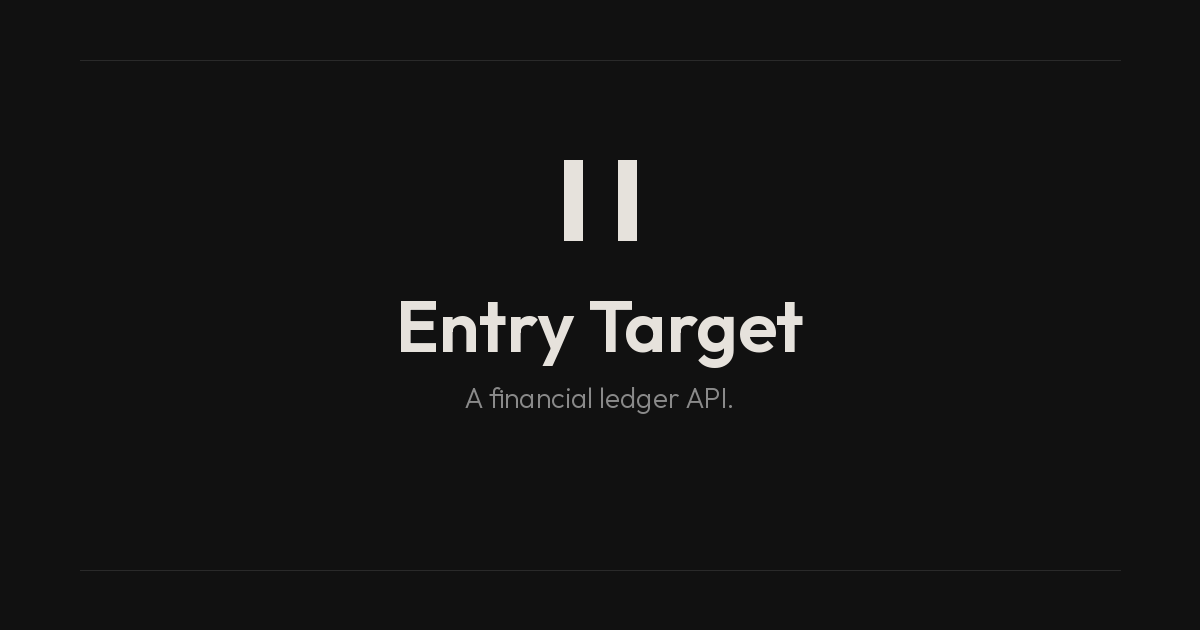
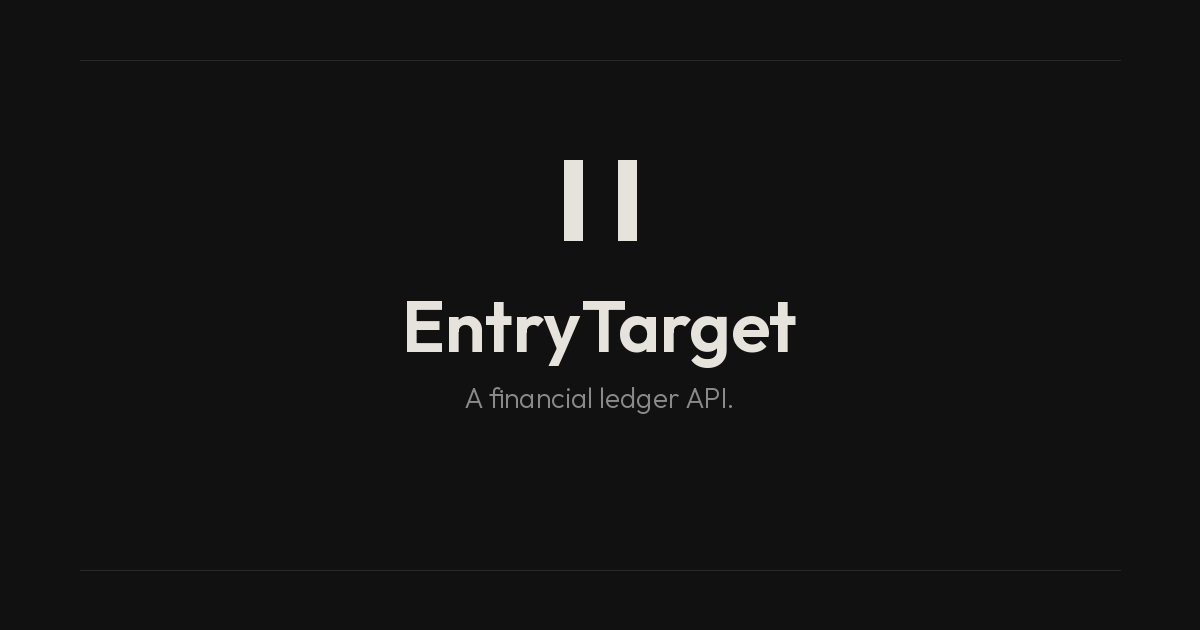
og-image.png

Changed region(s): [[0.3083, 0.4825, 0.6783, 0.6032]]

diff --git a/index.html b/index.html
@@ -16,7 +16,7 @@
     <meta name="viewport" content="width=device-width, initial-scale=1.0" />
 
     <!-- SEO fundamentals -->
-    <title>Entry Target — A financial ledger API.</title>
+    <title>EntryTarget — A financial ledger API.</title>
     <meta
       name="description"
       content="A high-performance, consistent, and straightforward financial ledger API. Double-entry accounting delivered as infrastructure — reliable, auditable, and built to operate at scale."
@@ -29,7 +29,7 @@
 
     <!-- Open Graph (WhatsApp, LinkedIn, Facebook) -->
     <meta property="og:type" content="website" />
-    <meta property="og:title" content="Entry Target — A financial ledger API." />
+    <meta property="og:title" content="EntryTarget — A financial ledger API." />
     <meta
       property="og:description"
       content="High-performance double-entry ledger API. Consistent, auditable, and built to scale."
@@ -38,11 +38,11 @@
     <meta property="og:image" content="https://entrytarget.com/og-image.png" />
     <meta property="og:image:width" content="1200" />
     <meta property="og:image:height" content="630" />
-    <meta property="og:site_name" content="Entry Target" />
+    <meta property="og:site_name" content="EntryTarget" />
 
     <!-- Twitter Card -->
     <meta name="twitter:card" content="summary_large_image" />
-    <meta name="twitter:title" content="Entry Target — A financial ledger API." />
+    <meta name="twitter:title" content="EntryTarget — A financial ledger API." />
     <meta
       name="twitter:description"
       content="High-performance double-entry ledger API. Consistent, auditable, and built to scale."
@@ -69,7 +69,7 @@
       {
         "@context": "https://schema.org",
         "@type": "SoftwareApplication",
-        "name": "Entry Target",
+        "name": "EntryTarget",
         "applicationCategory": "FinanceApplication",
         "description": "A high-performance, consistent, and straightforward financial ledger API.",
         "url": "https://entrytarget.com",
@@ -84,7 +84,7 @@
           },
           {
             "@type": "Offer",
-            "name": "Entry Target",
+            "name": "EntryTarget",
             "price": "250",
             "priceCurrency": "USD",
             "description": "Unlimited transactions. Configure your own infrastructure."
@@ -92,7 +92,7 @@
         ],
         "provider": {
           "@type": "Organization",
-          "name": "Entry Target",
+          "name": "EntryTarget",
           "url": "https://entrytarget.com",
           "contactPoint": {
             "@type": "ContactPoint",
@@ -323,9 +323,7 @@
         <li><a href="#pricing">Pricing</a></li>
         <li><a href="#faq">FAQ</a></li>
         <li>
-          <a href="https://entrytarget.gitbook.io/docs/" target="_blank" rel="noopener"
-            >Docs ↗</a
-          >
+          <a href="https://entrytarget.gitbook.io/docs/" target="_blank" rel="noopener">Docs ↗</a>
         </li>
         <li>
           <a href="https://console.entrytarget.com/" target="_blank" rel="noopener">Console ↗</a>
@@ -336,13 +334,15 @@
     <main>
       <!-- Hero -->
       <section class="hero" aria-label="Introduction">
-        <h1>Entry Target</h1>
-        <p class="tagline">A stateless financial ledger API. High performance. Uncompromising consistency.</p>
+        <h1>EntryTarget</h1>
+        <p class="tagline">
+          A stateless financial ledger API. High performance. Uncompromising consistency.
+        </p>
         <p>
-          Financial infrastructure should not be a source of uncertainty. Entry Target is a
+          Financial infrastructure should not be a source of uncertainty. EntryTarget is a
           double-entry ledger delivered as an API — purpose-built for teams that require
-          correctness, auditability, and throughput. The architecture is minimal by design.
-          A proven accounting model, executed with precision.
+          correctness, auditability, and throughput. The architecture is minimal by design. A proven
+          accounting model, executed with precision.
         </p>
       </section>
 
@@ -350,15 +350,13 @@
       <section id="what">
         <h2>What is it</h2>
         <p>
-          Entry Target is a financial ledger API. You create accounts, register financial
-          transfers between them, and retrieve balances. Credits equal debits. The books
-          close on time.
+          EntryTarget is a financial ledger API. You create accounts, register financial transfers
+          between them, and retrieve balances. Credits equal debits. The books close on time.
         </p>
         <p>
-          The architecture is conservative by design — a Rust monolith communicating
-          directly with the database. It runs on <em>your</em> AWS account. One container
-          on Fargate, one Postgres instance on RDS. Your data never leaves your
-          infrastructure.
+          The architecture is conservative by design — a Rust monolith communicating directly with
+          the database. It runs on <em>your</em> AWS account. One container on Fargate, one Postgres
+          instance on RDS. Your data never leaves your infrastructure.
         </p>
         <p>
           The result is an API that handles millions of transactions with full consistency:
@@ -373,8 +371,8 @@
         <h3>Double-entry bookkeeping</h3>
         <p>
           Every transaction produces a debit and a credit — or a batch of them. Always balanced.
-          Always consistent. The double-entry method is the established standard for accounting,
-          and this system implements it without deviation.
+          Always consistent. The double-entry method is the established standard for accounting, and
+          this system implements it without deviation.
         </p>
 
         <h3>Immutable audit trail</h3>
@@ -386,79 +384,77 @@
 
         <h3>Integrity verification</h3>
         <p>
-          Call <code>GET /integrity</code> to verify the entire database. Every row is
-          validated. If any record was altered directly in Postgres — whether by an
-          administrative error, an unauthorized script, or a misconfigured process — the
-          system detects it. Accounts with integrity violations are immediately blocked
-          from further transactions. Immutability is enforced at the application level.
+          Call <code>GET /integrity</code> to verify the entire database. Every row is validated. If
+          any record was altered directly in Postgres — whether by an administrative error, an
+          unauthorized script, or a misconfigured process — the system detects it. Accounts with
+          integrity violations are immediately blocked from further transactions. Immutability is
+          enforced at the application level.
         </p>
 
         <h3>Multi-asset support</h3>
         <p>
           The system tracks assets, not currencies specifically. Whether the unit of account is
-          dollars, euros, or inventory items, the ledger handles it with arbitrary precision.
-          Each journal entry declares its asset, and every account involved must match. Multiple
-          assets coexist within the same ledger without constraint.
+          dollars, euros, or inventory items, the ledger handles it with arbitrary precision. Each
+          journal entry declares its asset, and every account involved must match. Multiple assets
+          coexist within the same ledger without constraint.
         </p>
 
         <h3>No silent deduplication</h3>
         <p>
-          Duplicate requests are not silently absorbed. If the same transaction is submitted
-          twice, the system rejects it explicitly. Deduplication is a responsibility of the
-          calling system. The ledger treats every request as intentional, ensuring that
-          integration errors are detected at the point of origin.
+          Duplicate requests are not silently absorbed. If the same transaction is submitted twice,
+          the system rejects it explicitly. Deduplication is a responsibility of the calling system.
+          The ledger treats every request as intentional, ensuring that integration errors are
+          detected at the point of origin.
         </p>
 
         <h3>High performance</h3>
         <p>
-          Thousands of transactions per second on modest infrastructure. The system achieves
-          this through batched writes, minimal abstraction layers, and direct database
-          communication.
+          Thousands of transactions per second on modest infrastructure. The system achieves this
+          through batched writes, minimal abstraction layers, and direct database communication.
         </p>
 
         <h3>Journal archiving</h3>
         <p>
-          The journal grows by design. As volume increases, query performance over older
-          records will degrade. The archive endpoint allows you to select a cutoff date
-          and compact older entries into dedicated storage. Recent entries remain in the
-          active journal. You control the definition of "recent," the timing, and the
-          frequency.
+          The journal grows by design. As volume increases, query performance over older records
+          will degrade. The archive endpoint allows you to select a cutoff date and compact older
+          entries into dedicated storage. Recent entries remain in the active journal. You control
+          the definition of "recent," the timing, and the frequency.
         </p>
 
         <h3>Metrics endpoint</h3>
         <p>
-          A <code>GET /metrics</code> endpoint is available for Prometheus to scrape.
-          Connect Grafana, configure dashboards, and establish alerts. Observability is
-          included as a standard capability of the system.
+          A <code>GET /metrics</code> endpoint is available for Prometheus to scrape. Connect
+          Grafana, configure dashboards, and establish alerts. Observability is included as a
+          standard capability of the system.
         </p>
 
         <h3>Catastrophic recovery</h3>
         <p>
-          If a batch was committed and the process terminated before delivering the
-          response, the outcome is ambiguous. <code>GET /recovery</code> returns every
-          transaction from the last committed batch after a restart. This eliminates
-          orphaned transactions and the need for manual log analysis.
+          If a batch was committed and the process terminated before delivering the response, the
+          outcome is ambiguous. <code>GET /recovery</code> returns every transaction from the last
+          committed batch after a restart. This eliminates orphaned transactions and the need for
+          manual log analysis.
         </p>
 
         <h3>Balance by category</h3>
         <p>
-          Query all account balances for a given asset, grouped by account category, in a
-          single call. This provides the data necessary to construct a real-time balance
-          sheet or any other consolidated view.
+          Query all account balances for a given asset, grouped by account category, in a single
+          call. This provides the data necessary to construct a real-time balance sheet or any other
+          consolidated view.
         </p>
 
         <h3>Balance policies</h3>
         <p>
-          When posting a transaction, you specify — for each account involved — whether its
-          balance must remain positive, must remain negative, or has no restriction. Business
-          logic remains in the calling system. The ledger enforces the arithmetic constraints
-          declared in each request.
+          When posting a transaction, you specify — for each account involved — whether its balance
+          must remain positive, must remain negative, or has no restriction. Business logic remains
+          in the calling system. The ledger enforces the arithmetic constraints declared in each
+          request.
         </p>
 
         <h3>Simple API</h3>
         <p>
-          REST. JSON. Four primary endpoints. The API surface is minimal, and the
-          documentation reflects that.
+          REST. JSON. Four primary endpoints. The API surface is minimal, and the documentation
+          reflects that.
         </p>
         <p>Creating a transaction:</p>
         <pre><code>POST /v1/transactions
@@ -487,8 +483,8 @@
       <section id="pricing">
         <h2>Pricing</h2>
         <p>
-          No tiers. No per-transaction fees. One plan. One price. You configure the
-          infrastructure on your own AWS account. A free trial period is available.
+          No tiers. No per-transaction fees. One plan. One price. You configure the infrastructure
+          on your own AWS account. A free trial period is available.
         </p>
         <div class="pricing-grid">
           <div class="plan">
@@ -496,18 +492,18 @@
             <div class="price">$0</div>
             <p class="price-note">for one month, no obligations</p>
             <p>
-              Full access. No limits. No credit card required. Evaluate the system
-              thoroughly before making a decision.
+              Full access. No limits. No credit card required. Evaluate the system thoroughly before
+              making a decision.
             </p>
           </div>
           <div class="plan">
-            <h3>Entry Target</h3>
+            <h3>EntryTarget</h3>
             <div class="price">$250</div>
             <p class="price-note">per month</p>
             <p>
-              Unlimited transactions. Unlimited accounts. Unlimited assets. You select your
-              Fargate configuration, your RDS instance, and your read replicas. The
-              infrastructure scales according to your requirements.
+              Unlimited transactions. Unlimited accounts. Unlimited assets. You select your Fargate
+              configuration, your RDS instance, and your read replicas. The infrastructure scales
+              according to your requirements.
             </p>
           </div>
         </div>
@@ -523,9 +519,9 @@
         <details>
           <summary>What technology is used?</summary>
           <p>
-            The system is written in Rust, a language designed for correctness, memory safety,
-            and performance. The database is PostgreSQL — a mature, battle-tested relational
-            database. Communication is over standard HTTP.
+            The system is written in Rust, a language designed for correctness, memory safety, and
+            performance. The database is PostgreSQL — a mature, battle-tested relational database.
+            Communication is over standard HTTP.
           </p>
           <p>
             For a system where accounting precision is non-negotiable, a language that enforces
@@ -536,28 +532,27 @@
         <details>
           <summary>Is AWS required?</summary>
           <p>
-            At present, yes. The system runs on AWS Fargate and RDS Postgres. Support for
-            additional cloud providers is on the roadmap.
+            At present, yes. The system runs on AWS Fargate and RDS Postgres. Support for additional
+            cloud providers is on the roadmap.
           </p>
         </details>
 
         <details>
           <summary>Can this be used for digital assets or alternative currencies?</summary>
           <p>
-            The system tracks any financial transaction regardless of the asset type. It
-            ensures the numbers balance correctly. The classification of what is being
-            accounted for is determined by the calling system.
+            The system tracks any financial transaction regardless of the asset type. It ensures the
+            numbers balance correctly. The classification of what is being accounted for is
+            determined by the calling system.
           </p>
         </details>
 
         <details>
           <summary>What throughput can be expected?</summary>
           <p>
-            With all entries operating on the same balance: 21,000 transactions per second
-            on a local machine. 3,000 TPS on the smallest available Fargate and RDS
-            instances. Higher throughput is achievable with larger infrastructure
-            configurations. For workloads exceeding 3,000 TPS, we recommend contacting
-            our team to discuss the appropriate setup.
+            With all entries operating on the same balance: 21,000 transactions per second on a
+            local machine. 3,000 TPS on the smallest available Fargate and RDS instances. Higher
+            throughput is achievable with larger infrastructure configurations. For workloads
+            exceeding 3,000 TPS, we recommend contacting our team to discuss the appropriate setup.
           </p>
         </details>
 
@@ -565,8 +560,8 @@
           <summary>How is support provided?</summary>
           <p>
             Contact us at
-            <a href="mailto:support@entrytarget.com">support@entrytarget.com</a>. Every
-            inquiry is reviewed and responded to directly by the engineering team.
+            <a href="mailto:support@entrytarget.com">support@entrytarget.com</a>. Every inquiry is
+            reviewed and responded to directly by the engineering team.
           </p>
         </details>
       </section>
@@ -574,7 +569,7 @@
 
     <footer>
       <p>
-        <strong>Entry Target</strong>
+        <strong>EntryTarget</strong>
       </p>
       <p>
         <a href="mailto:contact@entrytarget.com">contact@entrytarget.com</a> ·
